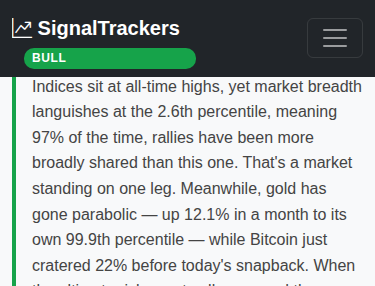
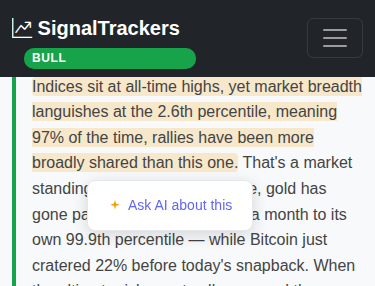
Fix design review screenshots for US-258.4 mobile tap flow
- Replace mobile-375-confirm-pill.png: pill now visible overlaying briefing
  text with amber-flashed sentence. Fix was to use networkidle (not
  domcontentloaded) so AJAX briefing content loads before DOM manipulation,
  and force position:fixed on pill for viewport-relative positioning.
- Add mobile-375-hint.png: discoverability hint visible on 375px
  pointer:coarse viewport (fullPage clip to hints element position).
- Update screenshots-us264.spec.js to match new approach.

Addresses design review on #264

Changed region(s): [[0.088, 0.2517, 0.968, 0.6154], [0.2347, 0.6154, 0.6747, 0.7832]]

diff --git a/screenshots-us264.spec.js b/screenshots-us264.spec.js
@@ -158,20 +158,41 @@ async function addMobileOverrides(page) {
 
   // ─── 3. mobile-375-confirm-pill.png ──────────────────────────────────────
   // Shows confirm pill appearing near a tapped sentence.
+  //
+  // Approach: wait for networkidle so the briefing AJAX completes, then wrap the
+  // real loaded briefing paragraphs into .ai-sentence spans. The pill is forced to
+  // position:fixed (viewport-relative) so it stays within the viewport clip.
   {
     const page = await browser.newPage({ viewport: { width: 375, height: 812 } });
-    await page.goto(`${BASE_URL}/`, { waitUntil: 'domcontentloaded' });
+    // Use networkidle so the briefing AJAX finishes before we manipulate the DOM.
+    // This prevents the AJAX handler from overwriting our injected spans.
+    await page.goto(`${BASE_URL}/`, { waitUntil: 'networkidle' });
     await addMobileOverrides(page);
 
-    await page.evaluate((html) => {
-      const el = document.getElementById('briefing-narrative');
-      if (!el) return;
-      el.innerHTML = html;
+    const briefingSection = page.locator('#briefing-section');
+    await briefingSection.scrollIntoViewIfNeeded();
+    await page.waitForTimeout(300);
 
-      el.querySelectorAll('p').forEach((p) => {
+    // Wrap the real briefing paragraphs into .ai-sentence spans, then show the pill.
+    // The pill is forced to position:fixed so its top/left are viewport-relative.
+    await page.evaluate(() => {
+      const narrative = document.getElementById('briefing-narrative');
+      if (!narrative) return;
+
+      // Wrap each paragraph's sentences into .ai-sentence spans
+      narrative.querySelectorAll('p').forEach((p) => {
         const text = p.textContent || '';
         const sentences = text.split(/(?<=[.!?])\s+(?=[A-Z])/);
-        if (sentences.length <= 1) return;
+        if (sentences.length <= 1) {
+          // Single sentence — wrap the whole paragraph as one span
+          const span = document.createElement('span');
+          span.className = 'ai-sentence';
+          span.style.cssText = 'display: inline; cursor: pointer; border-radius: 4px; padding: 1px 0;';
+          span.textContent = text.trim();
+          p.innerHTML = '';
+          p.appendChild(span);
+          return;
+        }
         const frag = document.createDocumentFragment();
         sentences.forEach((s, i) => {
           const span = document.createElement('span');
@@ -185,37 +206,26 @@ async function addMobileOverrides(page) {
         p.appendChild(frag);
       });
 
-      const contentEl = document.getElementById('briefing-content');
-      const loadingEl = document.getElementById('briefing-loading');
-      if (contentEl) contentEl.style.display = 'block';
-      if (loadingEl) loadingEl.style.display = 'none';
-    }, STUB_BRIEFING_HTML);
-
-    await page.waitForTimeout(300);
-
-    const briefingSection = page.locator('#briefing-section');
-    await briefingSection.scrollIntoViewIfNeeded();
-    await page.waitForTimeout(200);
-
-    // Get the first sentence span position and simulate the confirm pill appearing
-    await page.evaluate(() => {
+      // Position and show the confirm pill near the second sentence (more visible placement)
       const pill = document.getElementById('ai-briefing-confirm-pill');
-      const firstSentence = document.querySelector('.ai-sentence');
-      if (!pill || !firstSentence) return;
+      const sentences = document.querySelectorAll('.ai-sentence');
+      const targetSentence = sentences[1] || sentences[0];
+      if (!pill || !targetSentence) return;
 
-      const rect = firstSentence.getBoundingClientRect();
-      // Position pill below the first sentence
+      const rect = targetSentence.getBoundingClientRect();
       const pillW = 220;
       const margin = 8;
       const left = Math.max(margin, Math.min(rect.left + rect.width / 2 - pillW / 2, window.innerWidth - pillW - margin));
-      const top = rect.bottom + window.scrollY + margin;
+      const top = rect.bottom + margin; // viewport-relative (no scrollY)
 
+      // Force position:fixed — viewport-relative, stays in viewport screenshot clip
+      pill.style.position = 'fixed';
       pill.style.left = left + 'px';
       pill.style.top = top + 'px';
       pill.classList.add('is-visible');
 
-      // Flash the sentence
-      firstSentence.classList.add('is-flashing');
+      // Flash the sentence to show the tap state
+      targetSentence.classList.add('is-flashing');
     });
 
     await page.waitForTimeout(150);
@@ -225,6 +235,34 @@ async function addMobileOverrides(page) {
       path: path.join(OUT_DIR, 'mobile-375-confirm-pill.png'),
       clip: sectionBox
         ? { x: 0, y: sectionBox.y, width: 375, height: Math.min(sectionBox.height, 500) }
+        : undefined,
+    });
+    await page.close();
+  }
+
+  // ─── 5. mobile-375-hint.png ───────────────────────────────────────────────
+  // Shows the discoverability hint ('✦ Tap any sentence to explore with AI')
+  // below the briefing card on a 375px pointer:coarse viewport.
+  {
+    const page = await browser.newPage({ viewport: { width: 375, height: 812 } });
+    await page.goto(`${BASE_URL}/`, { waitUntil: 'domcontentloaded' });
+    await addMobileOverrides(page);
+
+    await page.waitForTimeout(300);
+
+    // boundingBox() on fullPage:true returns page-level coordinates
+    const hintsBox = await page.locator('.ai-briefing-hints').boundingBox();
+
+    await page.screenshot({
+      path: path.join(OUT_DIR, 'mobile-375-hint.png'),
+      fullPage: true,
+      clip: hintsBox
+        ? {
+            x: 0,
+            y: Math.max(0, hintsBox.y - 120),
+            width: 375,
+            height: hintsBox.height + 160,
+          }
         : undefined,
     });
     await page.close();
